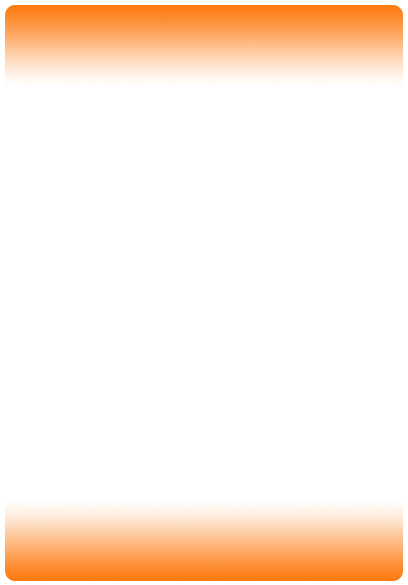
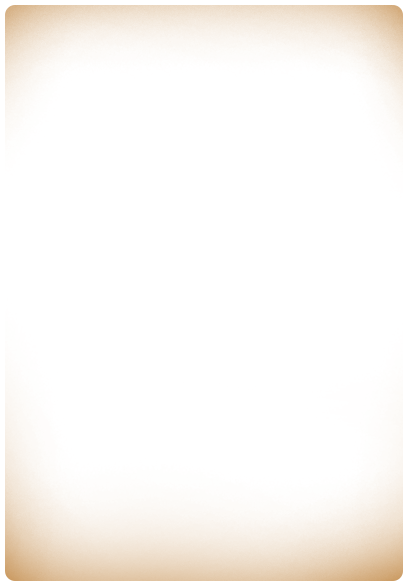
Spellweave: Card visuals experiments

diff --git a/spellweave/cardgen/build/main.js b/spellweave/cardgen/build/main.js
@@ -230,7 +230,7 @@ eval("__webpack_require__.r(__webpack_exports__);\n//\n//\n//\n//\n\n/* harmony 
 /***/ (function(module, __webpack_exports__, __webpack_require__) {
 
 "use strict";
-eval("__webpack_require__.r(__webpack_exports__);\n//\n//\n//\n//\n\n/* harmony default export */ __webpack_exports__[\"default\"] = ({\n\tdata: function() {\n\t\treturn {\n\t\t\tpreviewContext: null,\n\t\t\tcanvasRenderDebounceTimer: null,\n\t\t}\n\t},\n\tmounted: function() {\n\t\tlet canvas = this.$el;\n\t\tlet dpr = window.devicePixelRatio || 1;\n\t\tlet rect = canvas.getBoundingClientRect();\n\t\tcanvas.width = rect.width * dpr;\n\t\tcanvas.height = rect.height * dpr;\n\t\tlet ctx = canvas.getContext('2d');\n\t\tctx.scale(dpr, dpr);\n\t\tthis.previewContext = ctx;\n\n\t\tthis.$root.$on(Event.SAVE_CARD_AS_IMAGE, () => {\n\t\t\tthis.saveCanvasToFile();\n\t\t});\n\n\t\tthis.$root.$on(Event.CARD_STATE_UPDATED, () => {\n\t\t\tthis.renderCanvas();\n\t\t});\n\n\t\tthis.renderCanvasAfterDelay();\n\t\twindow.addEventListener('resize', () => {\n\t\t\tthis.renderCanvasAfterDelay();\n\t\t});\n\t},\n\tmethods: {\n\t\trenderCanvasAfterDelay: function() {\n\t\t\tif (this.canvasRenderDebounceTimer === null) {\n\t\t\t\tthis.canvasRenderDebounceTimer = setTimeout(this.renderCanvas, 20);\n\t\t\t}\n\t\t},\n\n\t\tclearCanvasRenderThrottleTimer: function() {\n\t\t\tthis.canvasRenderDebounceTimer = null;\n\t\t},\n\n\t\trenderCanvas: function() {\n\t\t\tlet backgroundImg = new Image();\n\t\t\tlet ctx = this.previewContext;\n\t\t\tbackgroundImg.onload = function() {\n\t\t\t\t// On background rendered\n\t\t\t\tctx.clearRect(0, 0, ctx.canvas.width, ctx.canvas.height);\n\t\t\t\tlet sourceWidth = backgroundImg.width;\n\t\t\t\tlet sourceHeight = backgroundImg.height;\n\t\t\t\tlet realWidth = ctx.canvas.offsetWidth;\n\t\t\t\tlet targetHeight = sourceWidth / (sourceWidth / sourceHeight);\n\t\t\t\tlet parent = $(this.$el).parent();\n\t\t\t\t$(this.$el).attr(\"width\", sourceWidth).attr(\"height\", targetHeight);\n\t\t\t\t$(this.$el).css('height', targetHeight);\n\t\t\t\t$(this.$el).css('max-width', sourceWidth);\n\t\t\t\t$(this.$el).css('margin-top', parent.height() / 2 - targetHeight / 2);\n\t\t\t\t$(this.$el).parent().css('min-width', sourceWidth);\n\t\t\t\tthis.drawImage(ctx, backgroundImg);\n\n\t\t\t\tlet state = this.$store.state.cardState;\n\n\t\t\t\tlet elementFileName = 'bg_element_' + state.cardElement + '.png';\n\t\t\t\tthis.drawImageFromFile(ctx, 'res/' + elementFileName, () => {\n\t\t\t\t\t// On element background rendered\n\t\t\t\t\tlet pathFileName;\n\t\t\t\t\tif (state.cardType === Type.PREPARATION) {\n\t\t\t\t\t\tpathFileName = 'empty.png';\n\t\t\t\t\t} else if (state.cardType === Type.ACTION) {\n\t\t\t\t\t\tpathFileName = 'bg_path_begin.png';\n\t\t\t\t\t} else if (state.cardType === Type.PATH && state.cardPathType === PathType.NORMAL) {\n\t\t\t\t\t\tpathFileName = 'bg_path_normal.png';\n\t\t\t\t\t} else if (state.cardType === Type.PATH && state.cardPathType === PathType.FORK) {\n\t\t\t\t\t\tpathFileName = 'bg_path_fork.png';\n\t\t\t\t\t} else if (state.cardType === Type.STATE) {\n\t\t\t\t\t\tpathFileName = 'bg_path_stop.png';\n\t\t\t\t\t} else if (state.cardType === Type.RELEASE) {\n\t\t\t\t\t\tpathFileName = 'bg_path_end.png';\n\t\t\t\t\t}\n\n\t\t\t\t\tthis.drawImageFromFile(ctx, 'res/' + pathFileName, () => {\n\t\t\t\t\t\t// On path rendered\n\t\t\t\t\t\tif (state.isFreeBuild || state.isFreeDraw) {\n\t\t\t\t\t\t\tthis.drawImageFromFile(ctx, 'res/bg_attribute.png', () => {\n\t\t\t\t\t\t\t\tif (state.isFreeBuild && state.isFreeDraw) {\n\t\t\t\t\t\t\t\t\tthis.drawImageFromFile(ctx, 'res/attr_freeBuildAndDraw.png');\n\t\t\t\t\t\t\t\t} else if (state.isFreeBuild) {\n\t\t\t\t\t\t\t\t\tthis.drawImageFromFile(ctx, 'res/attr_freeBuild.png');\n\t\t\t\t\t\t\t\t} else if (state.isFreeDraw) {\n\t\t\t\t\t\t\t\t\tthis.drawImageFromFile(ctx, 'res/attr_freeDraw.png');\n\t\t\t\t\t\t\t\t}\n\t\t\t\t\t\t\t});\n\t\t\t\t\t\t}\n\n\t\t\t\t\t\tif (state.cardManaCost >= 1 && state.cardManaCost <= 12) {\n\t\t\t\t\t\t\tlet manaCostFileName = 'manacost_' + state.cardManaCost + '.png';\n\t\t\t\t\t\t\tthis.drawImageFromFile(ctx, 'res/' + manaCostFileName);\n\t\t\t\t\t\t}\n\n\t\t\t\t\t\tlet cardName = this.$store.state.cardState.cardName;\n\t\t\t\t\t\tlet cardDescription = this.$store.state.cardState.cardDescription;\n\n\t\t\t\t\t\tif (cardName !== '') {\n\t\t\t\t\t\t\tthis.drawImageFromFile(ctx, 'res/bg_name.png', () => {\n\t\t\t\t\t\t\t\t// On name slot rendered\n\t\t\t\t\t\t\t\tthis.renderText(ctx, '24px K2D', 'black', cardName, realWidth / 2, 140, 24, 270);\n\t\t\t\t\t\t\t});\n\t\t\t\t\t\t}\n\t\t\t\t\t\tthis.renderText(ctx, '18px K2D', Color.DEFAULT_CARD_TEXT, cardDescription, realWidth / 2, 365, 20, realWidth - 50, 200);\n\t\t\t\t\t});\n\t\t\t\t});\n\n\t\t\t}.bind(this);\n\t\t\tbackgroundImg.src = 'res/bg_path.png';\n\t\t\tthis.clearCanvasRenderThrottleTimer();\n\t\t},\n\n\t\trenderText: function(ctx, font, color, text, targetX, targetY, lineHeight, maxWidth, maxHeight) {\n\t\t\tif (text === null || text.length === 0) {\n\t\t\t\treturn;\n\t\t\t}\n\t\t\tif (maxWidth === undefined) {\n\t\t\t\tmaxWidth = targetX * 2;\n\t\t\t}\n\t\t\tif (maxHeight === undefined) {\n\t\t\t\tmaxHeight = 0;\n\t\t\t}\n\n\t\t\tctx.font = font;\n\t\t\tctx.fillStyle = color;\n\n\t\t\tconst maximumLineY = targetY + maxHeight;\n\n\t\t\tlet paragraphs = text.split('\\n');\n\t\t\tlet currentLineY = targetY;\n\n\t\t\twhile (paragraphs.length > 0) {\n\t\t\t\tlet words = paragraphs[0].split(' ');\n\t\t\t\tlet currentLineText = null, currentTextCandidate = null;\n\n\t\t\t\twhile (words.length > 0) {\n\t\t\t\t\tcurrentTextCandidate = words[0];\n\t\t\t\t\tif (currentLineText !== null) {\n\t\t\t\t\t\tcurrentTextCandidate = currentLineText + ' ' + currentTextCandidate;\n\t\t\t\t\t}\n\t\t\t\t\tlet width = ctx.measureText(stripMarkup(currentTextCandidate)).width;\n\t\t\t\t\tif (width < maxWidth) {\n\t\t\t\t\t\tcurrentLineText = currentTextCandidate;\n\t\t\t\t\t\twords.splice(0, 1);\n\t\t\t\t\t} else if (currentLineText != null) {\n\t\t\t\t\t\tif (currentLineY + lineHeight > maximumLineY) {\n\t\t\t\t\t\t\tcurrentLineText += '...';\n\t\t\t\t\t\t\tbreak;\n\t\t\t\t\t\t}\n\t\t\t\t\t\tthis.renderTextLine(ctx, color, currentLineText, targetX, currentLineY);\n\t\t\t\t\t\tcurrentLineY += lineHeight;\n\t\t\t\t\t\tcurrentLineText = null;\n\t\t\t\t\t} else {\n\t\t\t\t\t\tcurrentLineText = currentTextCandidate;\n\t\t\t\t\t\tbreak;\n\t\t\t\t\t}\n\t\t\t\t}\n\n\t\t\t\tparagraphs.splice(0, 1);\n\t\t\t\tthis.renderTextLine(ctx, color, currentLineText, targetX, currentLineY);\n\t\t\t\tcurrentLineY += lineHeight * 1.2;\n\t\t\t}\n\t\t},\n\n\t\trenderTextLine: function(ctx, defaultColor, text, targetX, targetY) {\n\t\t\tif (text === null) {\n\t\t\t\tthrow 'Unable to render null text';\n\t\t\t}\n\n\t\t\tlet cleanText = stripMarkup(text);\n\t\t\tlet width = ctx.measureText(cleanText).width;\n\t\t\tlet renderTargetX = targetX - width / 2;\n\n\t\t\tconst colorTagPairPattern = /<color=['\"]?([a-zA-Z0-9#]+)['\"]?>.+<\\/color>$/g;\n\t\t\tconst openingColorTagPattern = /<color=['\"]?([a-zA-Z0-9#]+)['\"]?>.+$/g;\n\t\t\tconst inversedColorTagPairPattern = /<\\/color>.+<color=['\"]?([a-zA-Z0-9#]+)['\"]?>$/g;\n\t\t\tconst closingColorTagPattern = /.+<\\/color>$/g;\n\t\t\tconst firstClosingColorTagPattern = /<\\/color>.+$/g;\n\t\t\tconst lastOpeningColorTagPattern = /.+<color=['\"]?([a-zA-Z0-9#]+)['\"]?>$/g;\n\t\t\tconst nakedOpeningColorTagPattern = /<color=['\"]?([a-zA-Z0-9#]+)['\"]?>$/g;\n\t\t\tconst nakedClosingColorTagPattern = /<\\/color>$/g;\n\t\t\tlet results;\n\t\t\tlet currentLineX = renderTargetX;\n\n\t\t\tlet words = text.split(' ');\n\n\t\t\twhile (words.length > 0) {\n\t\t\t\tlet word = words[0];\n\t\t\t\tlet cleanWord = stripMarkup(word);\n\t\t\t\tif (words.length > 1) {\n\t\t\t\t\tcleanWord += ' ';\n\t\t\t\t}\n\n\t\t\t\tresults = colorTagPairPattern.exec(word);\n\t\t\t\tif (results !== null) {\n\t\t\t\t\tctx.fillStyle = results[1];\n\t\t\t\t\tctx.fillText(cleanWord, currentLineX, targetY);\n\t\t\t\t\tctx.fillStyle = defaultColor;\n\t\t\t\t}\n\n\t\t\t\tif (results === null) {\n\t\t\t\t\tresults = inversedColorTagPairPattern.exec(word);\n\t\t\t\t\tif (results !== null) {\n\t\t\t\t\t\tctx.fillStyle = defaultColor;\n\t\t\t\t\t\tctx.fillText(cleanWord, currentLineX, targetY);\n\t\t\t\t\t\tctx.fillStyle = results[1];\n\t\t\t\t\t}\n\t\t\t\t}\n\n\t\t\t\tif (results === null) {\n\t\t\t\t\tresults = openingColorTagPattern.exec(word);\n\t\t\t\t\tif (results !== null) {\n\t\t\t\t\t\tctx.fillStyle = results[1];\n\t\t\t\t\t\tctx.fillText(cleanWord, currentLineX, targetY);\n\t\t\t\t\t}\n\t\t\t\t}\n\n\t\t\t\tif (results === null) {\n\t\t\t\t\tresults = closingColorTagPattern.exec(word);\n\t\t\t\t\tif (results !== null) {\n\t\t\t\t\t\tctx.fillText(cleanWord, currentLineX, targetY);\n\t\t\t\t\t\tctx.fillStyle = defaultColor;\n\t\t\t\t\t}\n\t\t\t\t}\n\n\t\t\t\tif (results === null) {\n\t\t\t\t\tresults = firstClosingColorTagPattern.exec(word);\n\t\t\t\t\tif (results !== null) {\n\t\t\t\t\t\tctx.fillStyle = defaultColor;\n\t\t\t\t\t\tctx.fillText(cleanWord, currentLineX, targetY);\n\t\t\t\t\t}\n\t\t\t\t}\n\n\t\t\t\tif (results === null) {\n\t\t\t\t\tresults = lastOpeningColorTagPattern.exec(word);\n\t\t\t\t\tif (results !== null) {\n\t\t\t\t\t\tctx.fillText(cleanWord, currentLineX, targetY);\n\t\t\t\t\t\tctx.fillStyle = results[1];\n\t\t\t\t\t}\n\t\t\t\t}\n\n\t\t\t\tif (results === null) {\n\t\t\t\t\tresults = nakedOpeningColorTagPattern.exec(word);\n\t\t\t\t\tif (results !== null) {\n\t\t\t\t\t\tctx.fillStyle = results[1];\n\t\t\t\t\t}\n\t\t\t\t}\n\n\t\t\t\tif (results === null) {\n\t\t\t\t\tresults = nakedClosingColorTagPattern.exec(word);\n\t\t\t\t\tif (results !== null) {\n\t\t\t\t\t\tctx.fillStyle = defaultColor;\n\t\t\t\t\t}\n\t\t\t\t}\n\n\t\t\t\tif (results === null) {\n\t\t\t\t\tctx.fillText(cleanWord, currentLineX, targetY);\n\t\t\t\t}\n\n\t\t\t\twords.splice(0, 1);\n\t\t\t\tcurrentLineX += ctx.measureText(cleanWord).width;\n\n\t\t\t\tcolorTagPairPattern.lastIndex = 0;\n\t\t\t\topeningColorTagPattern.lastIndex = 0;\n\t\t\t\tinversedColorTagPairPattern.lastIndex = 0;\n\t\t\t\tclosingColorTagPattern.lastIndex = 0;\n\t\t\t\tfirstClosingColorTagPattern.lastIndex = 0;\n\t\t\t\tlastOpeningColorTagPattern.lastIndex = 0;\n\t\t\t\tnakedOpeningColorTagPattern.lastIndex = 0;\n\t\t\t\tnakedClosingColorTagPattern.lastIndex = 0;\n\t\t\t}\n\t\t},\n\n\t\tdrawImage: function(ctx, image) {\n\t\t\tctx.drawImage(image, 0, 0, ctx.canvas.width, ctx.canvas.height);\n\t\t},\n\n\t\tdrawImageFromFile: function(ctx, filePath, callback) {\n\t\t\tlet image = new Image();\n\t\t\timage.onload = function() {\n\t\t\t\tthis.drawImage(ctx, image);\n\t\t\t\tif (typeof callback !== 'undefined') {\n\t\t\t\t\tcallback();\n\t\t\t\t}\n\t\t\t}.bind(this);\n\t\t\timage.onerror = function() {\n\t\t\t\tcallback();\n\t\t\t};\n\t\t\timage.src = filePath;\n\t\t},\n\n\t\tgetCardFileName: function() {\n\t\t\tlet enteredName = this.$store.state.cardState.cardName;\n\t\t\tif (enteredName.length === 0) {\n\t\t\t\treturn 'sw-unnamedCard.png';\n\t\t\t} else {\n\t\t\t\tlet formattedName = enteredName.trim();\n\t\t\t\tformattedName = formattedName.substring(0, 1).toLowerCase() + formattedName.substring(1);\n\t\t\t\tformattedName = formattedName.replace(/\\s/g, '');\n\t\t\t\treturn 'sw-' + formattedName + '.png';\n\t\t\t}\n\t\t},\n\n\t\tsaveCanvasToFile: function() {\n\t\t\tlet image = this.previewContext.canvas.toDataURL(\"image/png\").replace(\"image/png\", \"image/octet-stream\");\n\n\t\t\tlet anchorTag = document.createElement(\"a\");\n\t\t\tdocument.body.appendChild(anchorTag);\n\t\t\tanchorTag.setAttribute('href', image);\n\t\t\tanchorTag.setAttribute('download', this.getCardFileName());\n\t\t\tanchorTag.click();\n\t\t\tsetTimeout(function() {\n\t\t\t\tdocument.body.removeChild(anchorTag);\n\t\t\t}, 0);\n\t\t},\n\t},\n});\n\n\n//# sourceURL=webpack:///./src/js/component/canvas-cardPreview.vue?./node_modules/vue-loader/lib??vue-loader-options");
+eval("__webpack_require__.r(__webpack_exports__);\n//\n//\n//\n//\n\n/* harmony default export */ __webpack_exports__[\"default\"] = ({\n\tdata: function() {\n\t\treturn {\n\t\t\tpreviewContext: null,\n\t\t\tcanvasRenderDebounceTimer: null,\n\t\t}\n\t},\n\tmounted: function() {\n\t\tlet canvas = this.$el;\n\t\tlet dpr = window.devicePixelRatio || 1;\n\t\tlet rect = canvas.getBoundingClientRect();\n\t\tcanvas.width = rect.width * dpr;\n\t\tcanvas.height = rect.height * dpr;\n\t\tlet ctx = canvas.getContext('2d');\n\t\tctx.scale(dpr, dpr);\n\t\tthis.previewContext = ctx;\n\n\t\tthis.$root.$on(Event.SAVE_CARD_AS_IMAGE, () => {\n\t\t\tthis.saveCanvasToFile();\n\t\t});\n\n\t\tthis.$root.$on(Event.CARD_STATE_UPDATED, () => {\n\t\t\tthis.renderCanvas();\n\t\t});\n\n\t\tthis.renderCanvasAfterDelay();\n\t\twindow.addEventListener('resize', () => {\n\t\t\tthis.renderCanvasAfterDelay();\n\t\t});\n\t},\n\tmethods: {\n\t\trenderCanvasAfterDelay: function() {\n\t\t\tif (this.canvasRenderDebounceTimer === null) {\n\t\t\t\tthis.canvasRenderDebounceTimer = setTimeout(this.renderCanvas, 20);\n\t\t\t}\n\t\t},\n\n\t\tclearCanvasRenderThrottleTimer: function() {\n\t\t\tthis.canvasRenderDebounceTimer = null;\n\t\t},\n\n\t\trenderCanvas: function() {\n\t\t\tlet backgroundImg = new Image();\n\t\t\tlet ctx = this.previewContext;\n\t\t\tbackgroundImg.onload = function() {\n\t\t\t\t// On background rendered\n\t\t\t\tctx.clearRect(0, 0, ctx.canvas.width, ctx.canvas.height);\n\t\t\t\tlet sourceWidth = backgroundImg.width;\n\t\t\t\tlet sourceHeight = backgroundImg.height;\n\t\t\t\tlet realWidth = ctx.canvas.offsetWidth;\n\t\t\t\tlet targetHeight = sourceWidth / (sourceWidth / sourceHeight);\n\t\t\t\tlet parent = $(this.$el).parent();\n\t\t\t\t$(this.$el).attr(\"width\", sourceWidth).attr(\"height\", targetHeight);\n\t\t\t\t$(this.$el).css('height', targetHeight);\n\t\t\t\t$(this.$el).css('max-width', sourceWidth);\n\t\t\t\t$(this.$el).css('margin-top', parent.height() / 2 - targetHeight / 2);\n\t\t\t\t$(this.$el).parent().css('min-width', sourceWidth);\n\t\t\t\tthis.drawImage(ctx, backgroundImg);\n\n\t\t\t\tlet state = this.$store.state.cardState;\n\n\t\t\t\tlet elementFileName = 'bg_element_' + state.cardElement + '.png';\n\t\t\t\tthis.drawImageFromFile(ctx, 'res/' + elementFileName, () => {\n\t\t\t\t\t// On element background rendered\n\t\t\t\t\tlet pathFileName;\n\t\t\t\t\tif (state.cardType === Type.PREPARATION) {\n\t\t\t\t\t\tpathFileName = 'empty.png';\n\t\t\t\t\t} else if (state.cardType === Type.ACTION) {\n\t\t\t\t\t\tpathFileName = 'bg_path_begin.png';\n\t\t\t\t\t} else if (state.cardType === Type.PATH && state.cardPathType === PathType.NORMAL) {\n\t\t\t\t\t\tpathFileName = 'bg_path_normal.png';\n\t\t\t\t\t} else if (state.cardType === Type.PATH && state.cardPathType === PathType.FORK) {\n\t\t\t\t\t\tpathFileName = 'bg_path_fork.png';\n\t\t\t\t\t} else if (state.cardType === Type.STATE) {\n\t\t\t\t\t\tpathFileName = 'bg_path_stop.png';\n\t\t\t\t\t} else if (state.cardType === Type.RELEASE) {\n\t\t\t\t\t\tpathFileName = 'bg_path_end.png';\n\t\t\t\t\t}\n\n\t\t\t\t\tthis.drawImageFromFile(ctx, 'res/' + pathFileName, () => {\n\t\t\t\t\t\t// On path rendered\n\t\t\t\t\t\tif (state.isFreeBuild || state.isFreeDraw) {\n\t\t\t\t\t\t\tthis.drawImageFromFile(ctx, 'res/bg_attribute.png', () => {\n\t\t\t\t\t\t\t\tif (state.isFreeBuild && state.isFreeDraw) {\n\t\t\t\t\t\t\t\t\tthis.drawImageFromFile(ctx, 'res/attr_freeBuildAndDraw.png');\n\t\t\t\t\t\t\t\t} else if (state.isFreeBuild) {\n\t\t\t\t\t\t\t\t\tthis.drawImageFromFile(ctx, 'res/attr_freeBuild.png');\n\t\t\t\t\t\t\t\t} else if (state.isFreeDraw) {\n\t\t\t\t\t\t\t\t\tthis.drawImageFromFile(ctx, 'res/attr_freeDraw.png');\n\t\t\t\t\t\t\t\t}\n\t\t\t\t\t\t\t});\n\t\t\t\t\t\t}\n\n\t\t\t\t\t\tif (state.cardManaCost >= 1 && state.cardManaCost <= 12) {\n\t\t\t\t\t\t\tlet manaCostFileName = 'manacost_' + state.cardManaCost + '.png';\n\t\t\t\t\t\t\tthis.drawImageFromFile(ctx, 'res/' + manaCostFileName);\n\t\t\t\t\t\t}\n\n\t\t\t\t\t\tlet cardName = this.$store.state.cardState.cardName;\n\t\t\t\t\t\tlet cardDescription = this.$store.state.cardState.cardDescription;\n\n\t\t\t\t\t\tif (cardName !== '') {\n\t\t\t\t\t\t\tthis.drawImageFromFile(ctx, 'res/bg_name.png', () => {\n\t\t\t\t\t\t\t\t// On name slot rendered\n\t\t\t\t\t\t\t\tthis.renderText(ctx, '24px K2D', 'black', cardName, realWidth / 2, 140, 24, 270);\n\t\t\t\t\t\t\t});\n\t\t\t\t\t\t}\n\t\t\t\t\t\tthis.renderText(ctx, '18px K2D', Color.DEFAULT_CARD_TEXT, cardDescription, realWidth / 2, 365, 20, realWidth - 50, 200);\n\t\t\t\t\t});\n\t\t\t\t});\n\n\t\t\t}.bind(this);\n\t\t\tbackgroundImg.src = 'res/bg_textured.png';\n\t\t\tthis.clearCanvasRenderThrottleTimer();\n\t\t},\n\n\t\trenderText: function(ctx, font, color, text, targetX, targetY, lineHeight, maxWidth, maxHeight) {\n\t\t\tif (text === null || text.length === 0) {\n\t\t\t\treturn;\n\t\t\t}\n\t\t\tif (maxWidth === undefined) {\n\t\t\t\tmaxWidth = targetX * 2;\n\t\t\t}\n\t\t\tif (maxHeight === undefined) {\n\t\t\t\tmaxHeight = 0;\n\t\t\t}\n\n\t\t\tctx.font = font;\n\t\t\tctx.fillStyle = color;\n\n\t\t\tconst maximumLineY = targetY + maxHeight;\n\n\t\t\tlet paragraphs = text.split('\\n');\n\t\t\tlet currentLineY = targetY;\n\n\t\t\twhile (paragraphs.length > 0) {\n\t\t\t\tlet words = paragraphs[0].split(' ');\n\t\t\t\tlet currentLineText = null, currentTextCandidate = null;\n\n\t\t\t\twhile (words.length > 0) {\n\t\t\t\t\tcurrentTextCandidate = words[0];\n\t\t\t\t\tif (currentLineText !== null) {\n\t\t\t\t\t\tcurrentTextCandidate = currentLineText + ' ' + currentTextCandidate;\n\t\t\t\t\t}\n\t\t\t\t\tlet width = ctx.measureText(stripMarkup(currentTextCandidate)).width;\n\t\t\t\t\tif (width < maxWidth) {\n\t\t\t\t\t\tcurrentLineText = currentTextCandidate;\n\t\t\t\t\t\twords.splice(0, 1);\n\t\t\t\t\t} else if (currentLineText != null) {\n\t\t\t\t\t\tif (currentLineY + lineHeight > maximumLineY) {\n\t\t\t\t\t\t\tcurrentLineText += '...';\n\t\t\t\t\t\t\tbreak;\n\t\t\t\t\t\t}\n\t\t\t\t\t\tthis.renderTextLine(ctx, color, currentLineText, targetX, currentLineY);\n\t\t\t\t\t\tcurrentLineY += lineHeight;\n\t\t\t\t\t\tcurrentLineText = null;\n\t\t\t\t\t} else {\n\t\t\t\t\t\tcurrentLineText = currentTextCandidate;\n\t\t\t\t\t\tbreak;\n\t\t\t\t\t}\n\t\t\t\t}\n\n\t\t\t\tparagraphs.splice(0, 1);\n\t\t\t\tthis.renderTextLine(ctx, color, currentLineText, targetX, currentLineY);\n\t\t\t\tcurrentLineY += lineHeight * 1.2;\n\t\t\t}\n\t\t},\n\n\t\trenderTextLine: function(ctx, defaultColor, text, targetX, targetY) {\n\t\t\tif (text === null) {\n\t\t\t\tthrow 'Unable to render null text';\n\t\t\t}\n\n\t\t\tlet cleanText = stripMarkup(text);\n\t\t\tlet width = ctx.measureText(cleanText).width;\n\t\t\tlet renderTargetX = targetX - width / 2;\n\n\t\t\tconst colorTagPairPattern = /<color=['\"]?([a-zA-Z0-9#]+)['\"]?>.+<\\/color>$/g;\n\t\t\tconst openingColorTagPattern = /<color=['\"]?([a-zA-Z0-9#]+)['\"]?>.+$/g;\n\t\t\tconst inversedColorTagPairPattern = /<\\/color>.+<color=['\"]?([a-zA-Z0-9#]+)['\"]?>$/g;\n\t\t\tconst closingColorTagPattern = /.+<\\/color>$/g;\n\t\t\tconst firstClosingColorTagPattern = /<\\/color>.+$/g;\n\t\t\tconst lastOpeningColorTagPattern = /.+<color=['\"]?([a-zA-Z0-9#]+)['\"]?>$/g;\n\t\t\tconst nakedOpeningColorTagPattern = /<color=['\"]?([a-zA-Z0-9#]+)['\"]?>$/g;\n\t\t\tconst nakedClosingColorTagPattern = /<\\/color>$/g;\n\t\t\tlet results;\n\t\t\tlet currentLineX = renderTargetX;\n\n\t\t\tlet words = text.split(' ');\n\n\t\t\twhile (words.length > 0) {\n\t\t\t\tlet word = words[0];\n\t\t\t\tlet cleanWord = stripMarkup(word);\n\t\t\t\tif (words.length > 1) {\n\t\t\t\t\tcleanWord += ' ';\n\t\t\t\t}\n\n\t\t\t\tresults = colorTagPairPattern.exec(word);\n\t\t\t\tif (results !== null) {\n\t\t\t\t\tctx.fillStyle = results[1];\n\t\t\t\t\tctx.fillText(cleanWord, currentLineX, targetY);\n\t\t\t\t\tctx.fillStyle = defaultColor;\n\t\t\t\t}\n\n\t\t\t\tif (results === null) {\n\t\t\t\t\tresults = inversedColorTagPairPattern.exec(word);\n\t\t\t\t\tif (results !== null) {\n\t\t\t\t\t\tctx.fillStyle = defaultColor;\n\t\t\t\t\t\tctx.fillText(cleanWord, currentLineX, targetY);\n\t\t\t\t\t\tctx.fillStyle = results[1];\n\t\t\t\t\t}\n\t\t\t\t}\n\n\t\t\t\tif (results === null) {\n\t\t\t\t\tresults = openingColorTagPattern.exec(word);\n\t\t\t\t\tif (results !== null) {\n\t\t\t\t\t\tctx.fillStyle = results[1];\n\t\t\t\t\t\tctx.fillText(cleanWord, currentLineX, targetY);\n\t\t\t\t\t}\n\t\t\t\t}\n\n\t\t\t\tif (results === null) {\n\t\t\t\t\tresults = closingColorTagPattern.exec(word);\n\t\t\t\t\tif (results !== null) {\n\t\t\t\t\t\tctx.fillText(cleanWord, currentLineX, targetY);\n\t\t\t\t\t\tctx.fillStyle = defaultColor;\n\t\t\t\t\t}\n\t\t\t\t}\n\n\t\t\t\tif (results === null) {\n\t\t\t\t\tresults = firstClosingColorTagPattern.exec(word);\n\t\t\t\t\tif (results !== null) {\n\t\t\t\t\t\tctx.fillStyle = defaultColor;\n\t\t\t\t\t\tctx.fillText(cleanWord, currentLineX, targetY);\n\t\t\t\t\t}\n\t\t\t\t}\n\n\t\t\t\tif (results === null) {\n\t\t\t\t\tresults = lastOpeningColorTagPattern.exec(word);\n\t\t\t\t\tif (results !== null) {\n\t\t\t\t\t\tctx.fillText(cleanWord, currentLineX, targetY);\n\t\t\t\t\t\tctx.fillStyle = results[1];\n\t\t\t\t\t}\n\t\t\t\t}\n\n\t\t\t\tif (results === null) {\n\t\t\t\t\tresults = nakedOpeningColorTagPattern.exec(word);\n\t\t\t\t\tif (results !== null) {\n\t\t\t\t\t\tctx.fillStyle = results[1];\n\t\t\t\t\t}\n\t\t\t\t}\n\n\t\t\t\tif (results === null) {\n\t\t\t\t\tresults = nakedClosingColorTagPattern.exec(word);\n\t\t\t\t\tif (results !== null) {\n\t\t\t\t\t\tctx.fillStyle = defaultColor;\n\t\t\t\t\t}\n\t\t\t\t}\n\n\t\t\t\tif (results === null) {\n\t\t\t\t\tctx.fillText(cleanWord, currentLineX, targetY);\n\t\t\t\t}\n\n\t\t\t\twords.splice(0, 1);\n\t\t\t\tcurrentLineX += ctx.measureText(cleanWord).width;\n\n\t\t\t\tcolorTagPairPattern.lastIndex = 0;\n\t\t\t\topeningColorTagPattern.lastIndex = 0;\n\t\t\t\tinversedColorTagPairPattern.lastIndex = 0;\n\t\t\t\tclosingColorTagPattern.lastIndex = 0;\n\t\t\t\tfirstClosingColorTagPattern.lastIndex = 0;\n\t\t\t\tlastOpeningColorTagPattern.lastIndex = 0;\n\t\t\t\tnakedOpeningColorTagPattern.lastIndex = 0;\n\t\t\t\tnakedClosingColorTagPattern.lastIndex = 0;\n\t\t\t}\n\t\t},\n\n\t\tdrawImage: function(ctx, image) {\n\t\t\tctx.drawImage(image, 0, 0, ctx.canvas.width, ctx.canvas.height);\n\t\t},\n\n\t\tdrawImageFromFile: function(ctx, filePath, callback) {\n\t\t\tlet image = new Image();\n\t\t\timage.onload = function() {\n\t\t\t\tthis.drawImage(ctx, image);\n\t\t\t\tif (typeof callback !== 'undefined') {\n\t\t\t\t\tcallback();\n\t\t\t\t}\n\t\t\t}.bind(this);\n\t\t\timage.onerror = function() {\n\t\t\t\tcallback();\n\t\t\t};\n\t\t\timage.src = filePath;\n\t\t},\n\n\t\tgetCardFileName: function() {\n\t\t\tlet enteredName = this.$store.state.cardState.cardName;\n\t\t\tif (enteredName.length === 0) {\n\t\t\t\treturn 'sw-unnamedCard.png';\n\t\t\t} else {\n\t\t\t\tlet formattedName = enteredName.trim();\n\t\t\t\tformattedName = formattedName.substring(0, 1).toLowerCase() + formattedName.substring(1);\n\t\t\t\tformattedName = formattedName.replace(/\\s/g, '');\n\t\t\t\treturn 'sw-' + formattedName + '.png';\n\t\t\t}\n\t\t},\n\n\t\tsaveCanvasToFile: function() {\n\t\t\tlet image = this.previewContext.canvas.toDataURL(\"image/png\").replace(\"image/png\", \"image/octet-stream\");\n\n\t\t\tlet anchorTag = document.createElement(\"a\");\n\t\t\tdocument.body.appendChild(anchorTag);\n\t\t\tanchorTag.setAttribute('href', image);\n\t\t\tanchorTag.setAttribute('download', this.getCardFileName());\n\t\t\tanchorTag.click();\n\t\t\tsetTimeout(function() {\n\t\t\t\tdocument.body.removeChild(anchorTag);\n\t\t\t}, 0);\n\t\t},\n\t},\n});\n\n\n//# sourceURL=webpack:///./src/js/component/canvas-cardPreview.vue?./node_modules/vue-loader/lib??vue-loader-options");
 
 /***/ }),
 

diff --git a/spellweave/cardgen/index.html b/spellweave/cardgen/index.html
@@ -2,7 +2,6 @@
 <head>
 	<meta http-equiv="content-type" content="text/html; charset=utf-8">
 
-	<link rel="stylesheet" href="build/style.css" />
 	<link href="https://fonts.googleapis.com/css?family=K2D" rel="stylesheet">
 	<link href="https://fonts.googleapis.com/css?family=Roboto" rel="stylesheet">
 	<link rel="stylesheet" href="https://use.fontawesome.com/releases/v5.3.1/css/all.css" integrity="sha384-mzrmE5qonljUremFsqc01SB46JvROS7bZs3IO2EmfFsd15uHvIt+Y8vEf7N7fWAU" crossorigin="anonymous">

diff --git a/spellweave/cardgen/src/js/component/canvas-cardPreview.vue b/spellweave/cardgen/src/js/component/canvas-cardPreview.vue
@@ -115,7 +115,7 @@
 					});
 
 				}.bind(this);
-				backgroundImg.src = 'res/bg_path.png';
+				backgroundImg.src = 'res/bg_textured.png';
 				this.clearCanvasRenderThrottleTimer();
 			},
 
